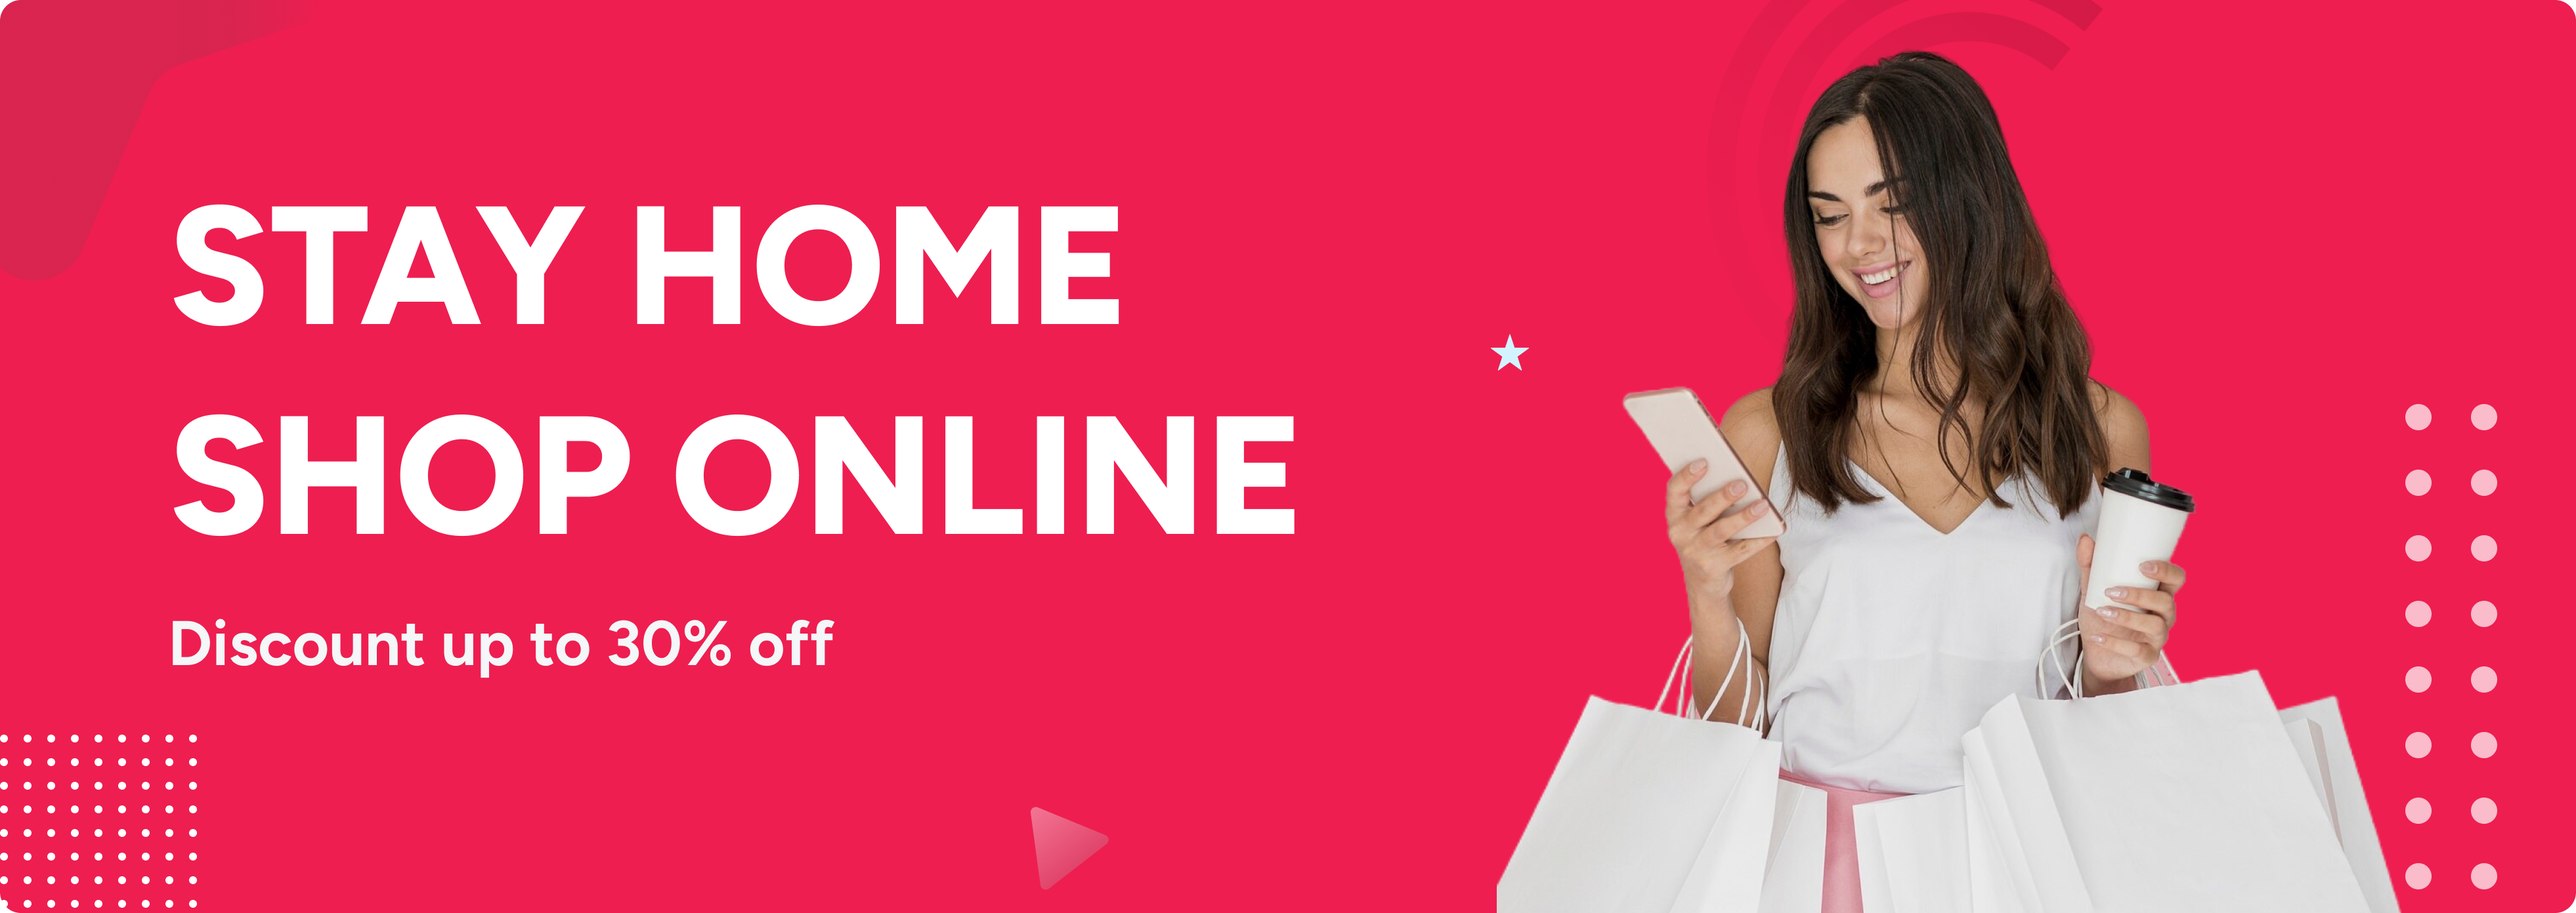
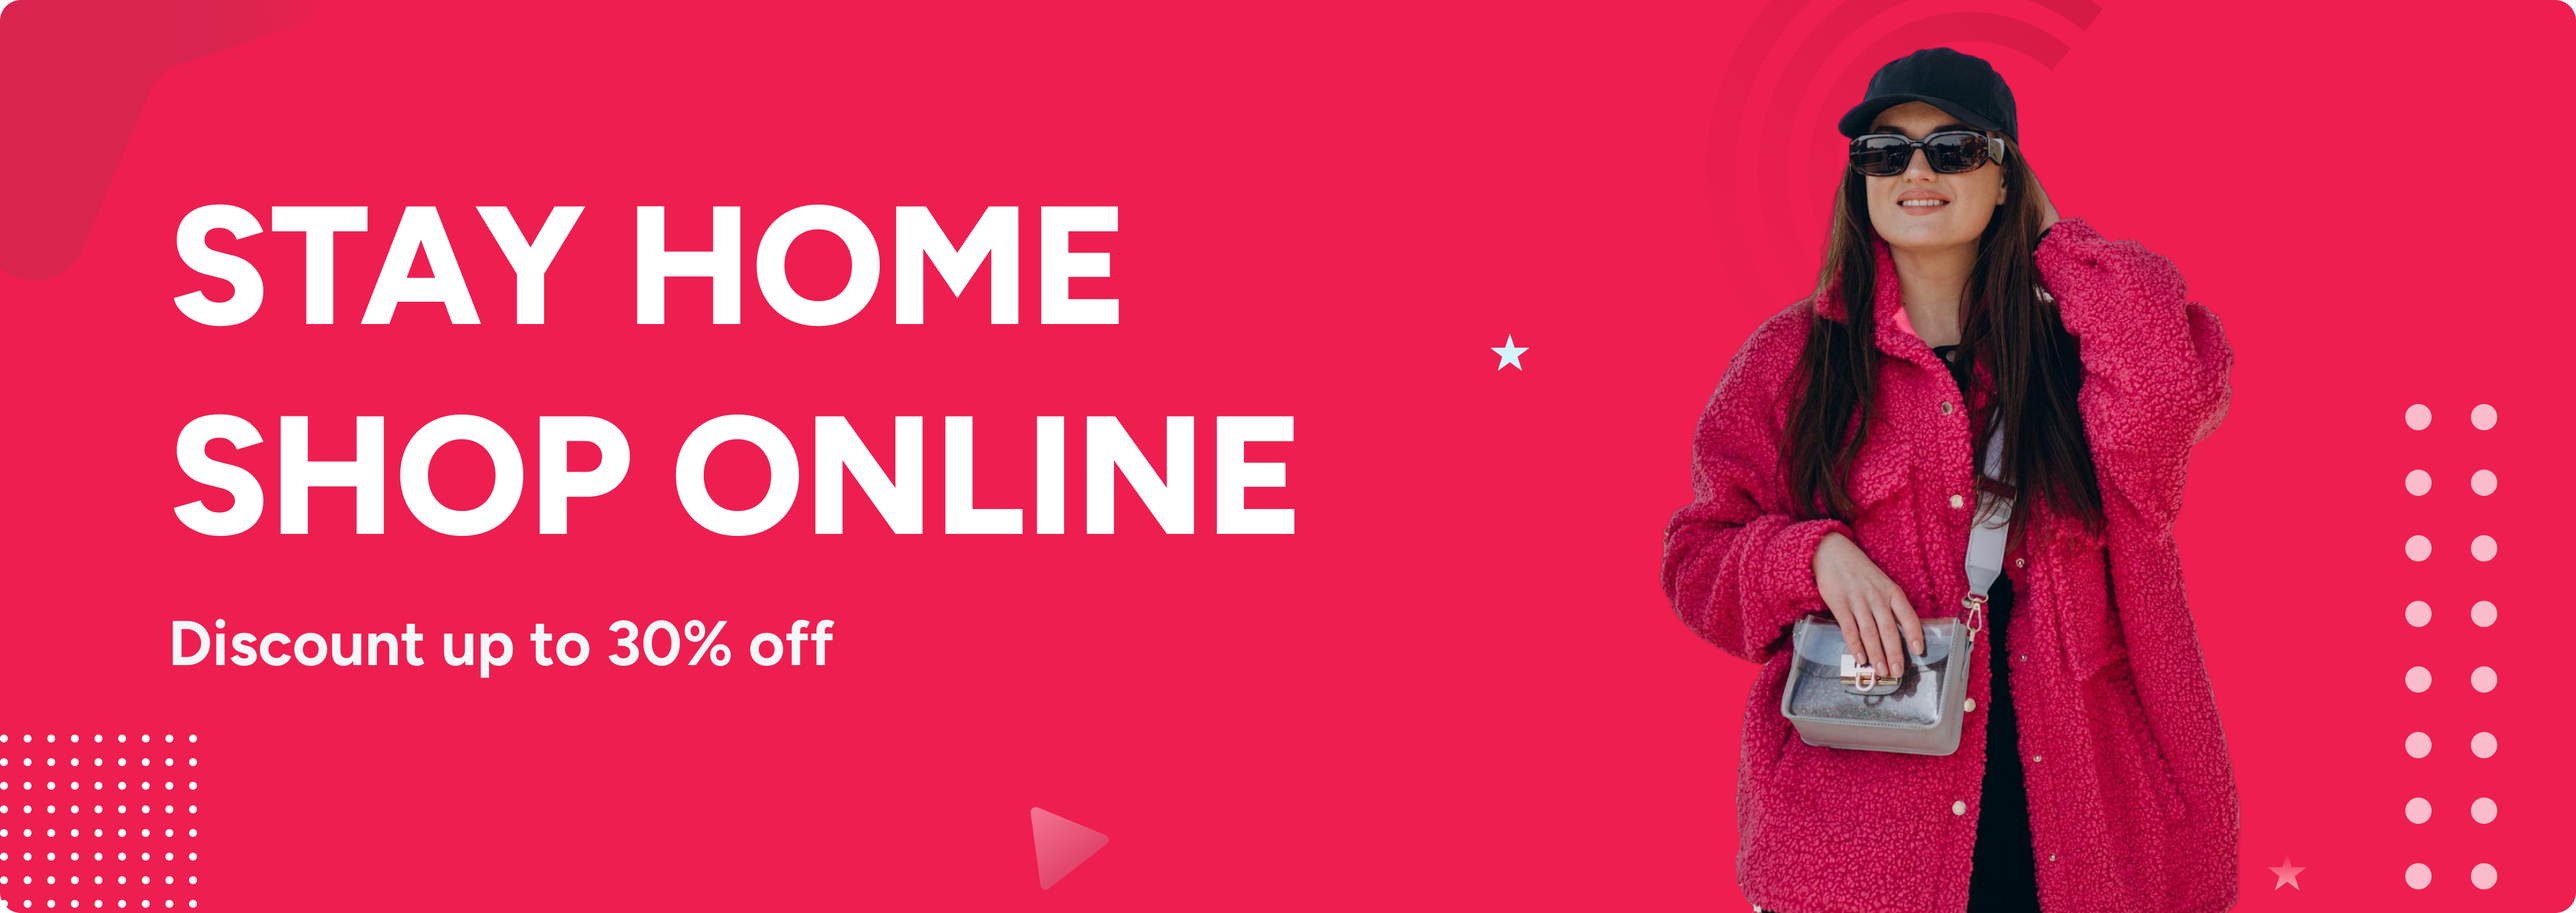
update images

Changed region(s): [[0.5596, 0.0309, 0.9327, 1.0]]

diff --git a/src/components/carousels/singleSlide/index.jsx b/src/components/carousels/singleSlide/index.jsx
@@ -94,11 +94,10 @@ function CarouselItem({ ...props }) {
   return (
     <Paper
       sx={{
-        bgcolor: alpha(item.color, themeMode === 'dark' ? 0.2 : 0.4),
         position: 'relative',
         borderBottom: (theme) => '1px solid ' + theme.palette.divider,
         zIndex: 11,
-        height: { xs: 220, md: 270, lg: 370 },
+        height: { xs: 125, sm: 225, md: 270, lg: 370 },
         borderRadius: 0,
         img: {
           borderRadius: 0,
@@ -106,34 +105,15 @@ function CarouselItem({ ...props }) {
         }
       }}
     >
+      <Image priority src={item.cover} alt="centered-banner" layout="fill" objectFit="cover" static draggable="false" />
       <Box
         sx={{
           top: 0,
           width: '100%',
           height: '100%',
-          position: 'absolute',
-          background: (theme) => (theme.palette.mode === 'dark' ? alpha(theme.palette.grey[800], 0.2) : '')
+          position: 'absolute'
         }}
       />
-      <Box
-        className="img-box"
-        // onClick={() => alert('Hello')}
-        sx={{
-          position: 'relative',
-          height: 350,
-          display: { xs: 'none', md: 'block' }
-        }}
-      >
-        <Image
-          priority
-          src={item.cover}
-          alt="centered-banner"
-          layout="fill"
-          objectFit="cover"
-          static
-          draggable="false"
-        />
-      </Box>
     </Paper>
   );
 }
@@ -164,7 +144,7 @@ export default function SingleSlideCarousel({ ...props }) {
         justifyContent: 'center',
         alignItems: 'center',
         overflow: 'hidden',
-        height: { xs: 200, md: 250, lg: 343 },
+        height: { xs: 120, sm: 220, md: 250, lg: 343 },
         borderRadius: '12px',
         overflow: 'hidden'
       }}
